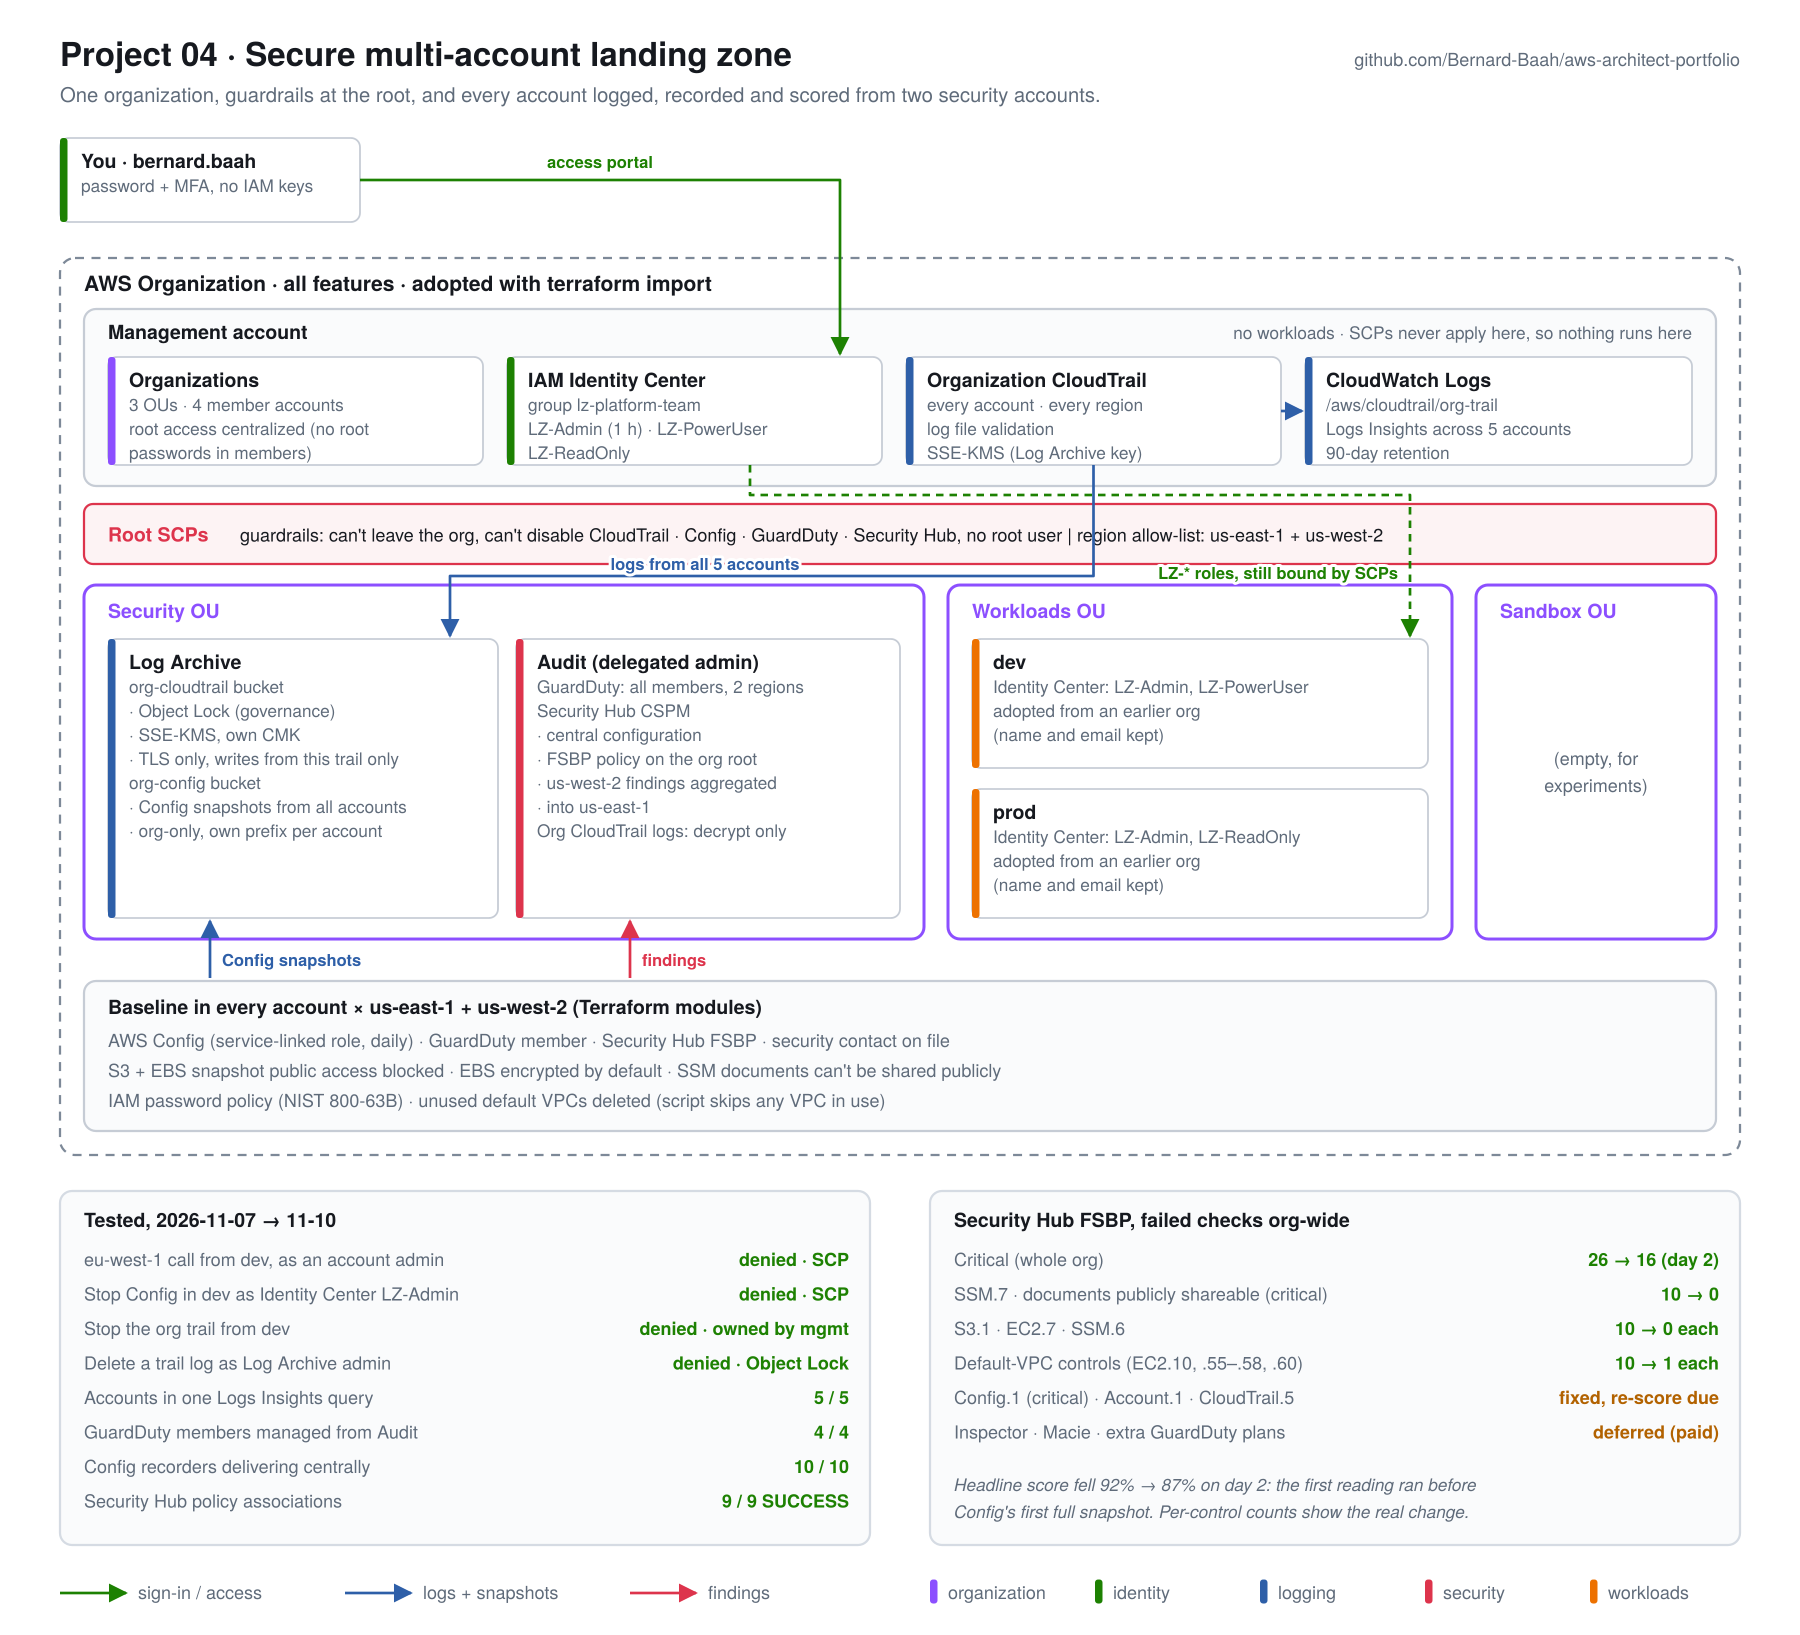
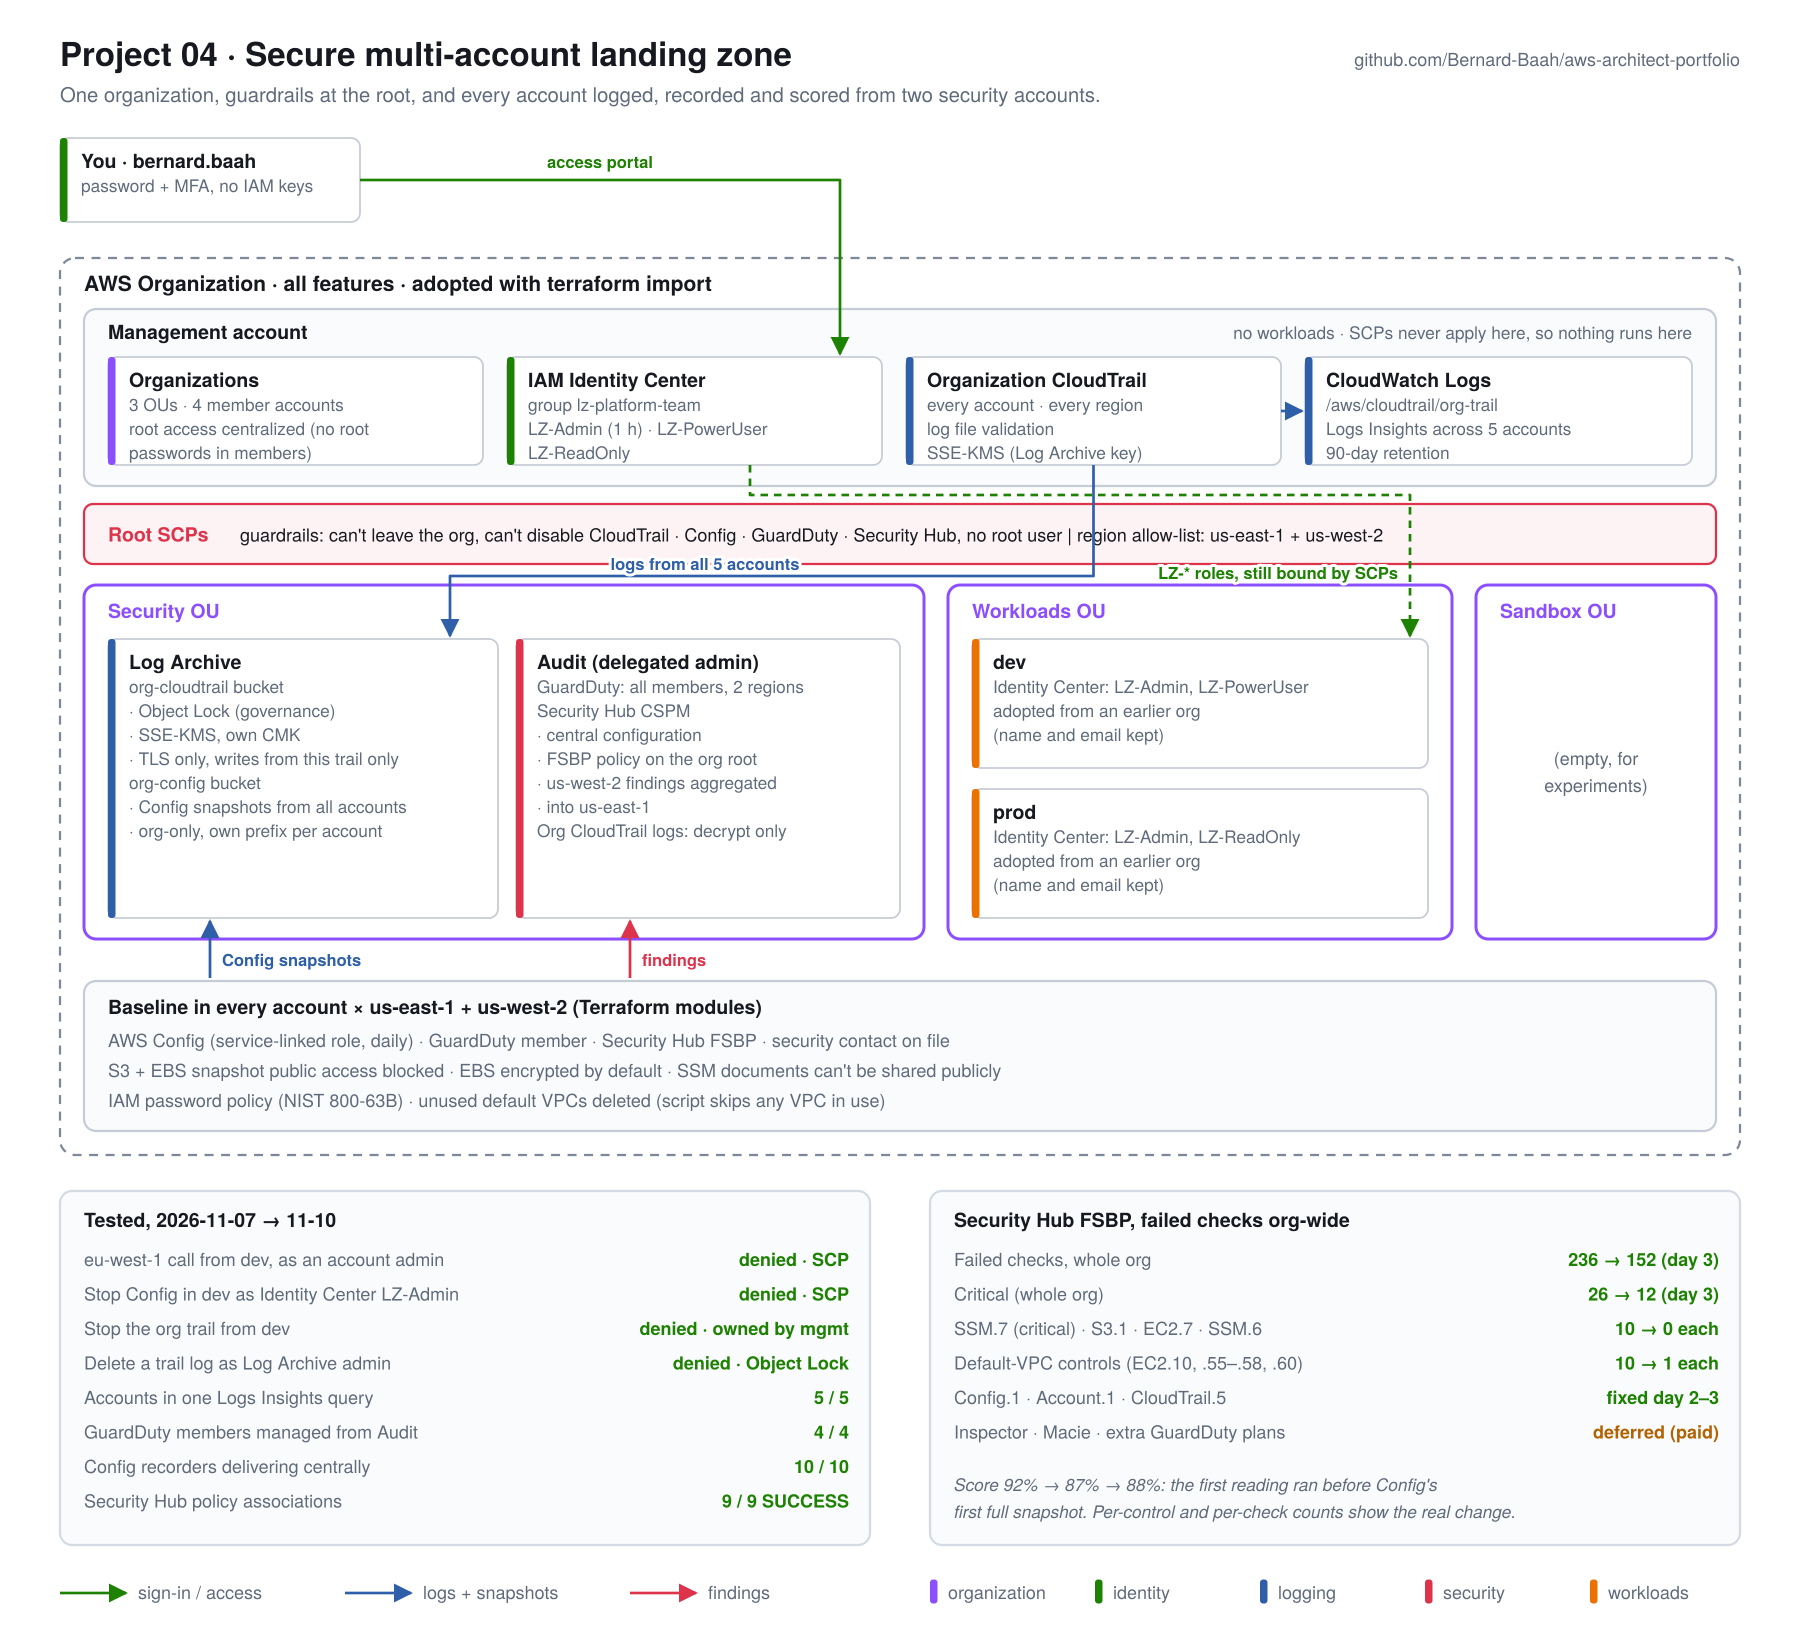
Record Security Hub day-3 score: 152 failed checks, 12 critical
Claude-Session: https://claude.ai/code/session_019qstuRt6H2GoJ43crPm6Nk

diff --git a/docs/diagrams/build_04_landing_zone.py b/docs/diagrams/build_04_landing_zone.py
@@ -165,11 +165,12 @@ for label, value, color in rows:
 rect(620, CY, 540, 236, "#d5dbe3", "#fafbfc", rx=8)
 text(636, CY + 24, "Security Hub FSBP, failed checks org-wide", size=13, weight="700")
 rows = [
-    ("Critical (whole org)", "26 → 16 (day 2)", OK),
-    ("SSM.7 · documents publicly shareable (critical)", "10 → 0", OK),
-    ("S3.1 · EC2.7 · SSM.6", "10 → 0 each", OK),
+    ("Failed checks, whole org", "236 → 152 (day 3)", OK),
+    ("Critical (whole org)", "26 → 12 (day 3)", OK),
+    ("SSM.7 (critical) · S3.1 · EC2.7 · SSM.6", "10 → 0 each", OK),
+    
     ("Default-VPC controls (EC2.10, .55–.58, .60)", "10 → 1 each", OK),
-    ("Config.1 (critical) · Account.1 · CloudTrail.5", "fixed, re-score due", PENDING),
+    ("Config.1 · Account.1 · CloudTrail.5", "fixed day 2–3", OK),
     ("Inspector · Macie · extra GuardDuty plans", "deferred (paid)", PENDING),
 ]
 y = CY + 50
@@ -177,8 +178,8 @@ for label, value, color in rows:
     text(636, y, label, size=12, fill=MUTED)
     text(1146, y, value, size=12, weight="700", fill=color, anchor="end")
     y += 23
-text(636, CY + 200, "Headline score fell 92% → 87% on day 2: the first reading ran before", size=11.5, fill=MUTED, italic=True)
-text(636, CY + 218, "Config's first full snapshot. Per-control counts show the real change.", size=11.5, fill=MUTED, italic=True)
+text(636, CY + 200, "Score 92% → 87% → 88%: the first reading ran before Config's", size=11.5, fill=MUTED, italic=True)
+text(636, CY + 218, "first full snapshot. Per-control and per-check counts show the real change.", size=11.5, fill=MUTED, italic=True)
 
 # ------------------------------------------------------------------ legend
 ly = 1062

diff --git a/04-landing-zone/README.md b/04-landing-zone/README.md
@@ -152,11 +152,11 @@ Layer 1 is free: Organizations, OUs, SCPs and idle accounts cost nothing. AWS Co
 - [ ] Redeploy Project 01 into Dev via GitHub Actions + a per-account OIDC role
 
 ## Results
-| Metric (FSBP v1.0.0, 5 accounts × 2 regions) | First reading | Day 2 (after layer 3a) |
-|--------|--------|-------|
-| Security Hub security score | 92% (342 passed / 29 failed controls) | 87% (323 passed / 48 failed controls) |
-| Failed checks | 214 / 3,533 | 236 / 3,666 |
-| Failed by severity | 26 critical · 54 high · 134 medium · 0 low | **16 critical** · 78 high · 132 medium · 10 low |
+| Metric (FSBP v1.0.0, 5 accounts × 2 regions) | First reading | Day 2 (after layer 3a) | Day 3 (all fixes) |
+|--------|--------|-------|-------|
+| Security Hub security score | 92% (342 passed / 29 failed controls) | 87% (323 passed / 48 failed controls) | **88%** (326 passed / 45 failed) |
+| Failed checks | 214 / 3,533 | 236 / 3,666 | **152 / 3,660** (−36% vs day 2) |
+| Failed by severity | 26 critical · 54 high · 134 medium · 0 low | 16 critical · 78 high · 132 medium · 10 low | **12 critical** · 59 high · 71 medium · 10 low |
 
 **Why the score went *down* after fixing things.** The first reading was taken a few hours after AWS Config started, before its first full snapshot, so Security Hub hadn't evaluated every resource yet (+133 checks the next day, including the new log buckets, KMS key and IAM roles). And the score counts **controls**, not checks: a control fails if a single resource fails it. One default VPC kept on purpose in the management account (it hosts a separate workload) keeps ~9 VPC controls failing org-wide on its own. The per-control check counts show what the fixes actually did:
 
@@ -167,6 +167,8 @@ Layer 1 is free: Organizations, OUs, SCPs and idle accounts cost nothing. AWS Co
 | EC2.10 · EC2.55–58 · EC2.60 | 10 each | 1 each (the kept VPC) |
 | EC2.15 | 50 | 20 (deleted subnets still ageing out) |
 | Config.1 (critical) | 10 | 10 → fixed day 2 by switching to the service-linked role (all 10 recorders confirmed on `AWSServiceRoleForConfig`) |
+
+Day 3, after Config.1, Account.1 and CloudTrail.5 were fixed: failed checks fell from 236 to 152 and critical from 16 to 12. Most of what remains is the deferred paid services (Inspector, Macie, extra GuardDuty plans) and the one default VPC kept on purpose.
 
 Lesson: measure a baseline only after the data source has completed a full cycle, and report per-control results next to the headline score.
 

diff --git a/README.md b/README.md
@@ -15,7 +15,7 @@ deployments, fiber) and AWS Certified Cloud Practitioner. · [bernardbaah.com](h
 | 1 | [HA multi-tier web app](01-ha-web-app/) | CloudFront + WAF → internal ALB → ASG → RDS Multi-AZ. Measured: 100% availability on graceful replacement, 96.5% on instance crash, 40 s DB failover | ✅ Done |
 | 2 | [Serverless event-driven pipeline](02-serverless-pipeline/) | S3 → EventBridge → Step Functions → Lambda/DynamoDB/SNS; IAM-auth query API. Measured: 500-file burst with 0 lost (10-concurrency account, throttles absorbed), ≈ $0.19 per 1,000 files, incident drill DLQ → redrive → alarm OK; 38 unit tests | ✅ Done |
 | 3 | [Multi-region disaster recovery](03-multi-region-dr/) | Warm standby us-east-1 → us-west-2: CloudFront origin failover, cross-region RDS replica, password never in state. Game day: **100% availability** through a primary-region outage, **writable in 9 min 15 s** (target 15) | ✅ Done |
-| 4 | [Multi-account landing zone](04-landing-zone/) | Adopted an existing AWS Organization into Terraform: guardrail SCPs, org CloudTrail into a locked Log Archive, GuardDuty + Config + Security Hub run from an Audit account, Identity Center SSO. Tested: an Identity Center **admin is denied** turning off Config by the SCP; critical Security Hub findings **26 → 16** on day 2 with the rest fixed | ✅ Done |
+| 4 | [Multi-account landing zone](04-landing-zone/) | Adopted an existing AWS Organization into Terraform: guardrail SCPs, org CloudTrail into a locked Log Archive, GuardDuty + Config + Security Hub run from an Audit account, Identity Center SSO. Tested: an Identity Center **admin is denied** turning off Config by the SCP; Security Hub failed checks **236 → 152** and critical **26 → 12** by day 3 | ✅ Done |
 | 5 | [Observability & FinOps](05-observability-finops/) | SLOs, alarms, tracing, cost optimization | ⏳ Planned |
 
 ## Project 01 at a glance
